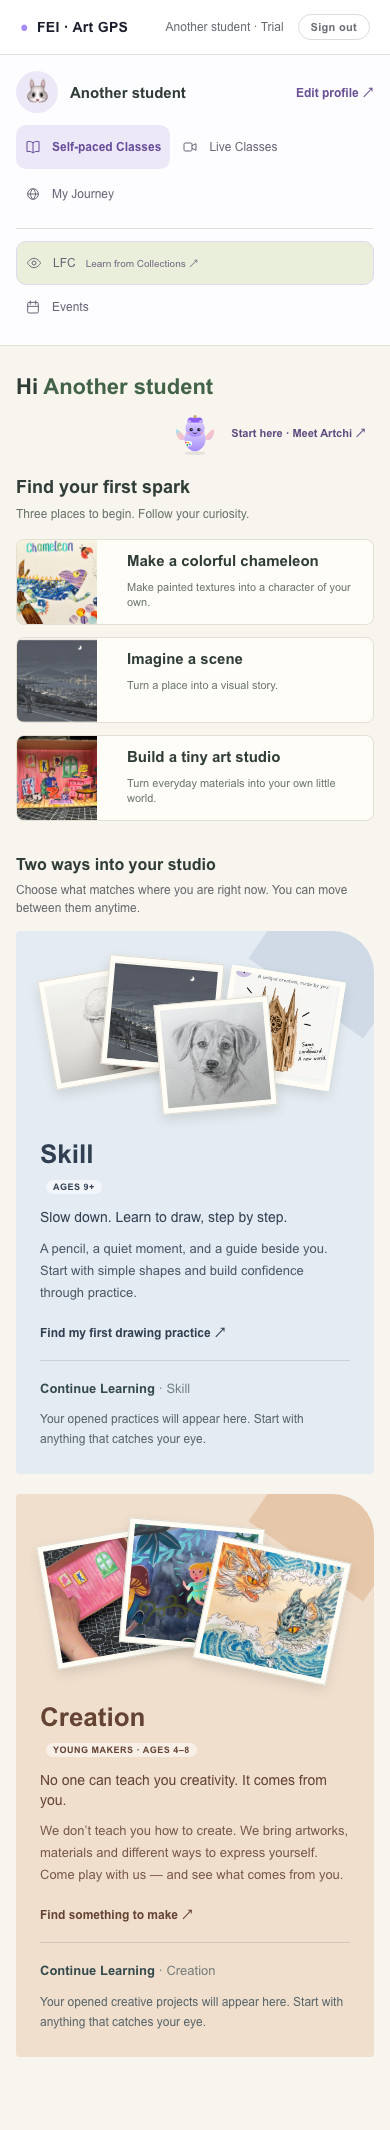
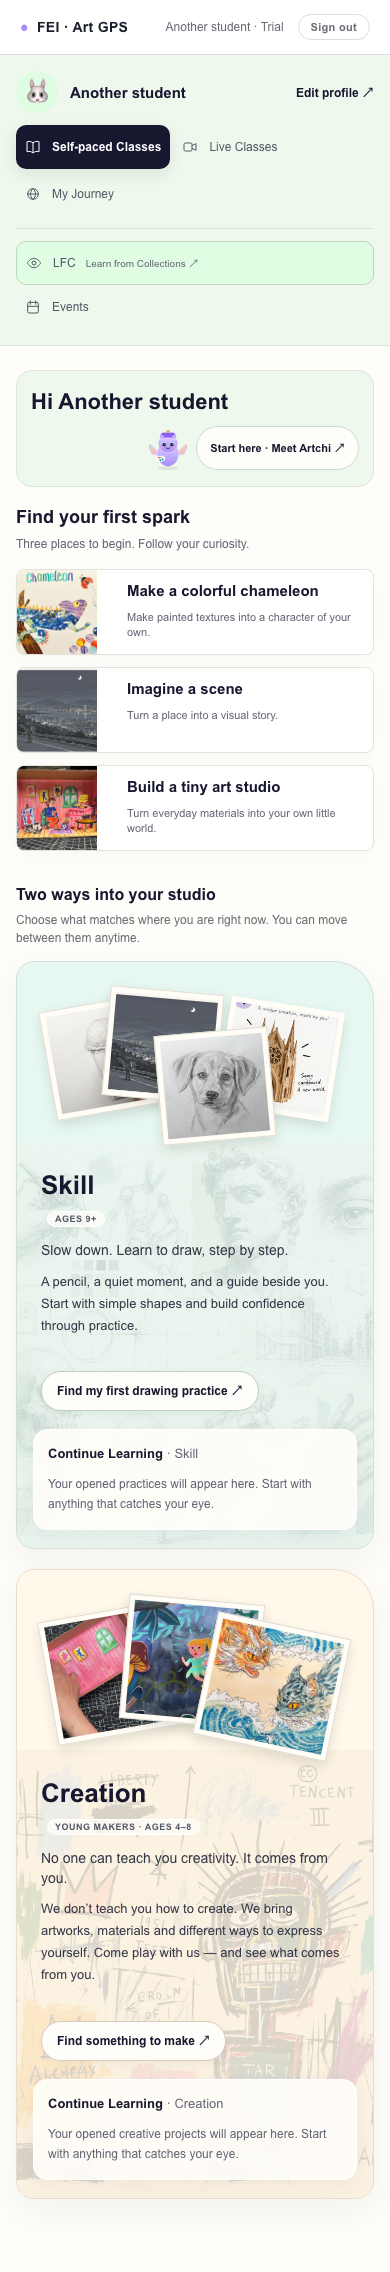
Align dashboard with homepage palette and restore illustrated course panels

diff --git a/core/dashboard-explore.css b/core/dashboard-explore.css
@@ -124,3 +124,57 @@
 #student-shell .explore-portals .track-quote {font-family:"Open Sans",sans-serif;font-size:14px}
 #student-shell .studio-continue h3 {font-family:Montserrat,sans-serif}
 #student-shell .start-recommend-heading h2 {font-size:18px}
+
+/* Homepage palette: #defde2 canvas, #fffdf9 surfaces, #17182f ink.
+   Scoped to the dashboard; Artchi and standalone lesson themes keep their own colors. */
+#student-shell {--dash-ink:#17182f;--dash-purple:#17182f;--dash-muted:#626574;--dash-line:#dce5db;background:#fffdf9;color:var(--dash-ink)}
+#student-shell .dashboard-content {background:#fffdf9}
+#student-shell .dashboard-sidebar {background:#eff8ed;border-color:#dce5db}
+#student-shell .dashboard-avatar {background:#defde2}
+#student-shell .dashboard-nav a {color:#535866}
+#student-shell .dashboard-nav a[aria-current=page] {background:#17182f;color:#fff;box-shadow:0 5px 16px #17182f18}
+#student-shell .dashboard-nav a:hover:not([aria-current=page]) {background:#defde2;color:#17182f}
+#student-shell .dashboard-link,#student-shell .dashboard-button,#student-shell #hero-name,#student-shell .hero-name {color:#17182f}
+#student-shell .dashboard-button {border-color:#d8dfd5;background:#fffdf9}
+#student-shell .dashboard-button.primary {background:#17182f;color:#fff}
+#student-shell .dashboard-special a {background:#defde2;border-color:#bfd6c0}
+#student-shell .dashboard-special small,#student-shell .dashboard-small {color:#626574}
+#student-shell .dashboard-tabs a[aria-current=page] {color:#17182f;border-color:#17182f}
+#student-shell .dashboard-panel,#student-shell .dashboard-shape-panel {background:#fffdf9}
+#student-shell .dashboard-badge-symbol {background:#e7f7f2;color:#17182f}
+#student-shell .dashboard-profile-form input[type=text],#student-shell .dashboard-profile-form textarea {border-color:#d8dfd5}
+#student-shell .dashboard-avatar-options input:checked+span {border-color:#17182f;background:#defde2}
+#student-shell .explore-hero {background:#eff8ed;border:1px solid #dce5db;border-radius:16px;padding:16px 22px}
+#student-shell .explore-invitation .dashboard-button {border:1px solid #cbdccc;background:#fffdf9;padding:9px 13px;border-radius:999px}
+#student-shell .start-course-list a {background:#fff;border-color:#e1e4dc;box-shadow:0 4px 14px #17182f06;color:#17182f}
+#student-shell .start-course-list a:hover {border-color:#91ac95;box-shadow:0 7px 20px #17182f12}
+#student-shell .pick-copy small,#student-shell .start-recommend-heading p {color:#626574}
+#student-shell .start-recommend-heading button {color:#17182f;border-color:#c7d7c5;background:#eff8ed}
+#student-shell .studio-direction {position:relative;isolation:isolate;background:#e7f7f2;border:1px solid #d0e0d5;border-radius:18px 40px 18px 18px;box-shadow:0 12px 32px #23273d0d}
+#student-shell .creation-direction {background:#fff8eb;border-color:#e5ddce}
+#student-shell .studio-direction::before {content:'';position:absolute;inset:210px 0 0;background:url('../assets/dashboard/skill-background.jpg') center bottom/cover no-repeat;opacity:.38;pointer-events:none;z-index:-2}
+#student-shell .creation-direction::before {background-image:url('../assets/dashboard/creation-background.jpg')}
+#student-shell .studio-direction::after {content:'';position:absolute;inset:210px 0 0;background:#e7f7f280;pointer-events:none;z-index:-1}
+#student-shell .creation-direction::after {background:#fff8eb99}
+#student-shell .studio-direction .track-card,#student-shell .studio-direction .track-card:hover {background:transparent;color:#17182f}
+#student-shell .studio-direction .track-card::before {display:none}
+#student-shell .studio-direction .track-age-pill {background:#fffdf9cc;color:#535866;border:1px solid #ffffff}
+#student-shell .studio-direction .track-quote,#student-shell .studio-direction .track-description {color:#343747;opacity:1}
+#student-shell .studio-direction .explore-portal-link {display:inline-flex;align-items:center;min-height:40px;padding:0 15px;background:#fffdf9;border:1px solid #becfc1;border-radius:999px;box-shadow:0 4px 12px #17182f0b;color:#17182f}
+#student-shell .creation-direction .explore-portal-link {border-color:#d9ccba}
+#student-shell .studio-continue {margin:0 22px 22px;padding:18px;border:1px solid #ffffff;border-radius:14px;background:#fffdf9ed;box-shadow:0 6px 22px #23273d0c;backdrop-filter:blur(5px)}
+#student-shell .studio-continue h3 {color:#17182f}
+#student-shell .studio-continue h3 span {color:#626574;opacity:1}
+#student-shell .studio-continue p {color:#626574}
+#student-shell .studio-continue a {align-items:center;min-height:58px;gap:12px;border-color:#e3e7df;color:#17182f}
+#student-shell .studio-continue a:hover {text-decoration:none}
+#student-shell .studio-continue a b {display:inline-flex;align-items:center;justify-content:center;min-height:40px;padding:0 15px;border:1px solid #17182f;border-radius:999px;background:#17182f;color:#fff;font:600 11px 'Open Sans',sans-serif;box-shadow:0 0 0 3px #defde266,0 5px 16px #587c5d40;transition:box-shadow .2s,transform .2s,background .2s}
+#student-shell .creation-direction .studio-continue a b {box-shadow:0 0 0 3px #f3e5cc88,0 5px 16px #b89a6640}
+#student-shell .studio-continue a:hover b,#student-shell .studio-continue a:focus-visible b {background:#30334c;transform:translateY(-2px);box-shadow:0 0 0 4px #defde2,0 7px 22px #587c5d59}
+#student-shell .creation-direction .studio-continue a:hover b,#student-shell .creation-direction .studio-continue a:focus-visible b {box-shadow:0 0 0 4px #f3e5cc,0 7px 22px #b89a6659}
+#student-shell a:focus-visible,#student-shell button:focus-visible {outline:2px solid #17182f;outline-offset:4px}
+#student-shell .skill-gallery .subtrack {background:#fffdf9;border-color:#dce5db;box-shadow:0 6px 18px #23273d08}
+#student-shell .skill-gallery .subtrack-name,#student-shell .skill-gallery .subtrack-arrow {color:#17182f}
+#student-shell .skill-gallery-description,#student-shell .skill-gallery .subtrack-meta {color:#626574}
+@media(max-width:680px){#student-shell .explore-hero{padding:14px}#student-shell .studio-continue{margin:0 16px 18px;padding:14px}#student-shell .studio-continue a b{padding:0 12px;min-height:44px}#student-shell .studio-direction::before,#student-shell .studio-direction::after{top:180px}}
+@media(prefers-reduced-motion:reduce){#student-shell .studio-continue a b{transition:none;transform:none}}

diff --git a/index.html b/index.html
@@ -2157,7 +2157,7 @@ Let's start drawing, and have fun.</p><span class="sketch-intro-transcript-note"
      reads — single source of truth, no second copy of the 10-lesson list. -->
 <script src="core/foundation-a-path.js"></script>
 <script src="core/still-life-lesson.js"></script>
-<link rel="stylesheet" href="core/dashboard-explore.css?v=4">
+<link rel="stylesheet" href="core/dashboard-explore.css?v=home-palette-5">
 <script src="core/studio-catalog.js?v=1"></script>
 <script src="core/dashboard-explore.js?v=3"></script>
 <script src="core/student-dashboard.js?v=explore-3"></script>

diff --git a/docs/student-dashboard-workspace.md b/docs/student-dashboard-workspace.md
@@ -64,3 +64,9 @@ Validation: mocked browser regression passes, including separate multi-project l
 ## Typography constraint
 
 Use the existing brand fonts throughout: Open Sans for body copy and Montserrat for titles. Do not introduce serif fonts or substitute a new font family. Keep titles restrained: Skill / Creation 26px, Skill page heading 24px (22px mobile), course-card headings 18px, recommendation heading 18px. This is an explicit user requirement, not a stylistic suggestion.
+
+## Homepage color alignment and continuation emphasis
+
+The dashboard theme follows the live FEI homepage inspected October 14: warm white `#fffdf9`, light green `#defde2`, and dark ink `#17182f`. Tinted surfaces use pale green and warm cream. The two original track background images (the existing CDN IDs in `index.html`) are restored below the photo collages, with translucent color masks. Local copies live at `assets/dashboard/skill-background.jpg` and `creation-background.jpg`.
+
+Continuation links retain their original guarded link behavior but now display a dark pill CTA with a soft branch-tinted glow, hover feedback, keyboard focus treatment and reduced-motion handling. All theme rules are dashboard-scoped; Artchi artwork and standalone Fashion Design remain unchanged. Browser regression and 44 responsive checks pass; progress screenshots contain test fixtures.
